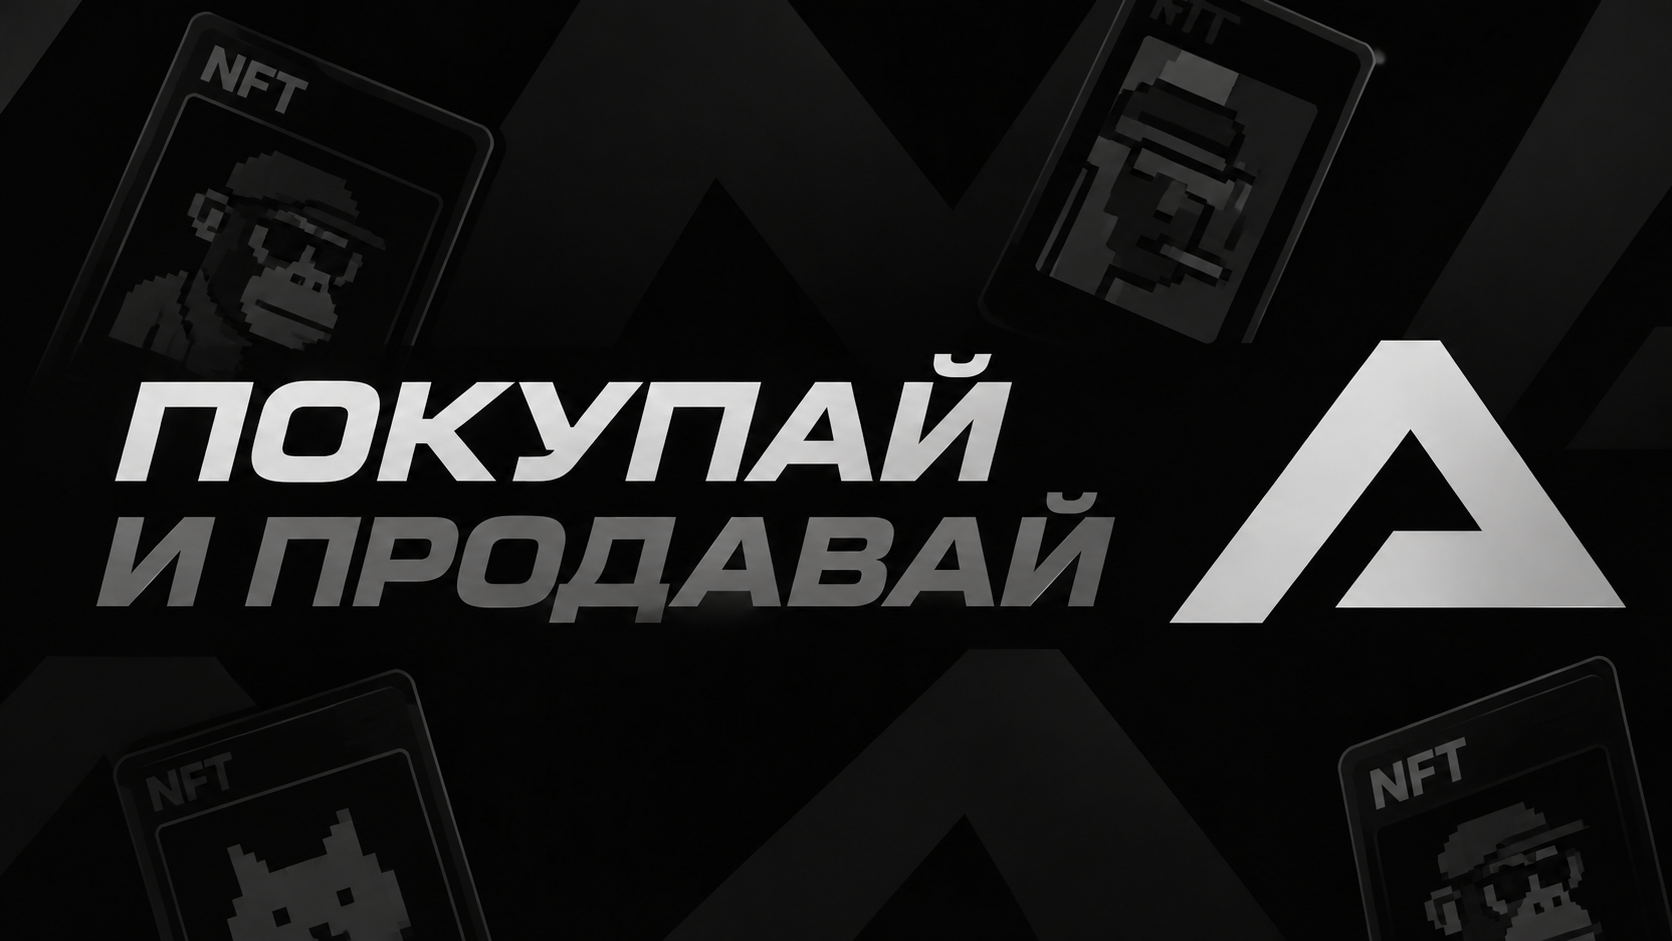
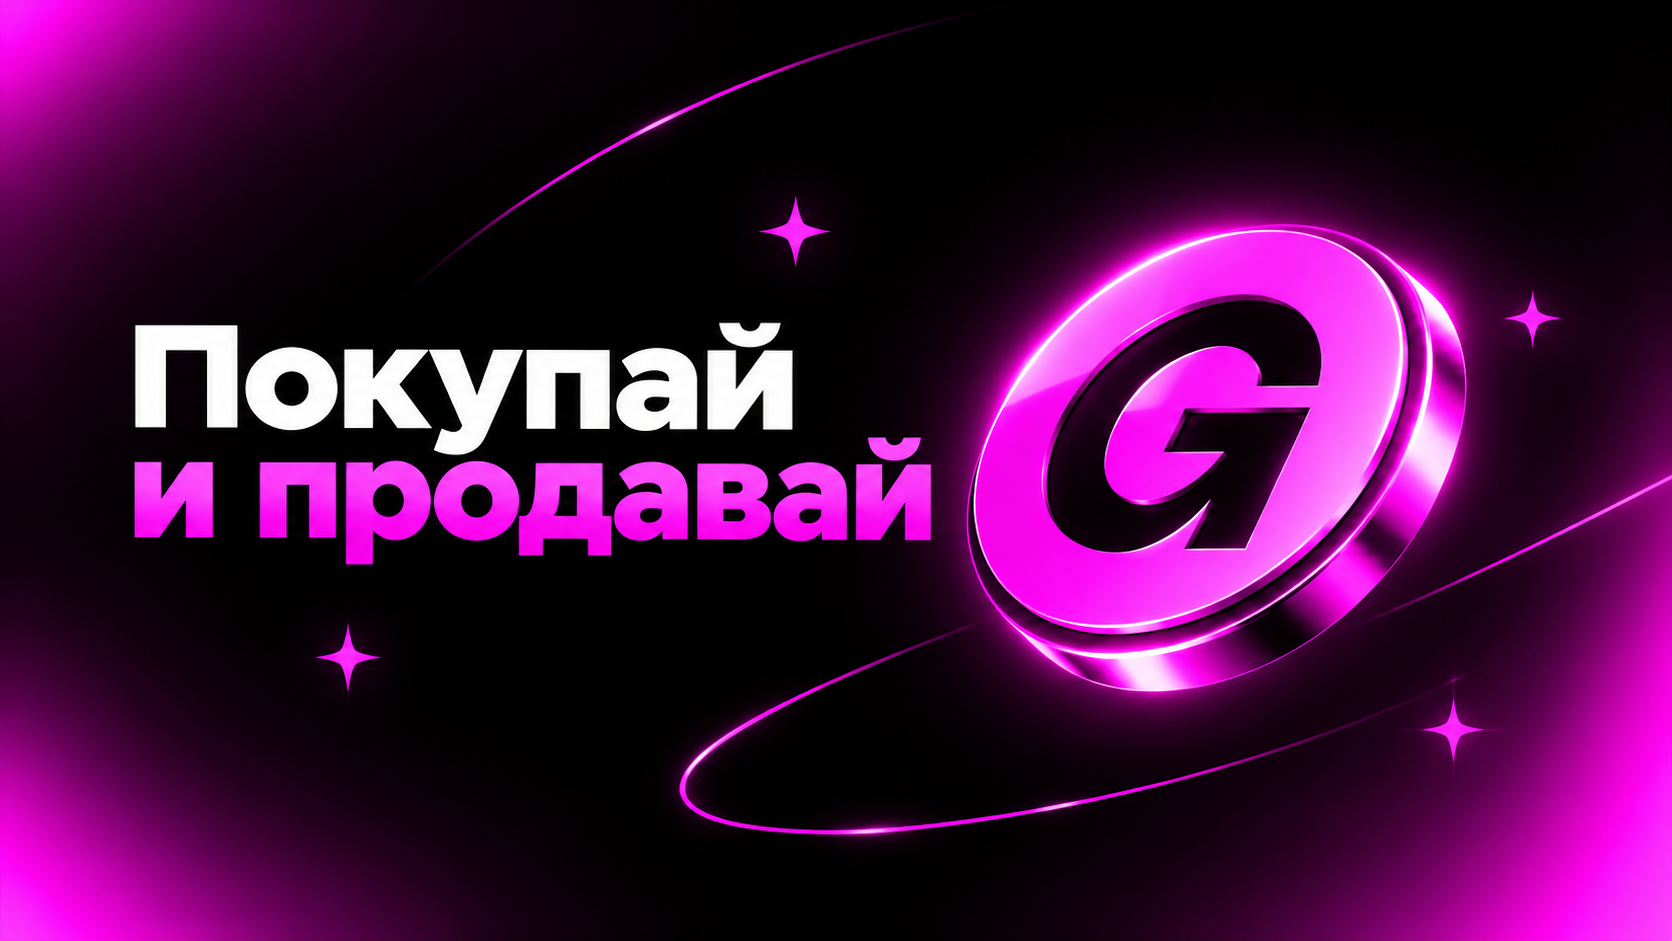
Bot: socials in welcome, blue buttons, create/language buttons, new welcome art

diff --git a/app/bot.py b/app/bot.py
@@ -99,6 +99,15 @@ def webapp_url(query: str = "") -> str:
     return f"{base}?{query}" if query else base
 
 
+def blue(markup: InlineKeyboardMarkup) -> InlineKeyboardMarkup:
+    """Красит все кнопки в синий (Bot API 9.4+: style="primary")."""
+    for row in markup.inline_keyboard:
+        for button in row:
+            if not getattr(button, "style", None):
+                button.style = "primary"
+    return markup
+
+
 def welcome_menu(lang: str = "ru") -> InlineKeyboardMarkup:
     builder = InlineKeyboardBuilder()
     builder.row(
@@ -107,7 +116,13 @@ def welcome_menu(lang: str = "ru") -> InlineKeyboardMarkup:
             text=tr("Открыть маркетплейс", lang), web_app=WebAppInfo(url=settings.market_url)
         ),
     )
-    return builder.as_markup()
+    builder.row(
+        InlineKeyboardButton(
+            text="➕ " + tr("Создать сделку", lang), web_app=WebAppInfo(url=webapp_url("tab=create"))
+        ),
+        InlineKeyboardButton(text="🌐 " + tr("Сменить язык", lang), callback_data="lang"),
+    )
+    return blue(builder.as_markup())
 
 
 def main_menu(lang: str = "ru") -> InlineKeyboardMarkup:
@@ -130,7 +145,7 @@ def main_menu(lang: str = "ru") -> InlineKeyboardMarkup:
         InlineKeyboardButton(text="❔ " + tr("Как это работает", lang), callback_data="how"),
     )
     builder.row(InlineKeyboardButton(text="🌐 " + tr("Язык", lang), callback_data="lang"))
-    return builder.as_markup()
+    return blue(builder.as_markup())
 
 
 def language_menu(lang: str = "ru") -> InlineKeyboardMarkup:
@@ -140,7 +155,7 @@ def language_menu(lang: str = "ru") -> InlineKeyboardMarkup:
         InlineKeyboardButton(text="🇬🇧 English", callback_data="lang:en"),
     )
     builder.row(InlineKeyboardButton(text=T(lang, "← Назад", "← Back"), callback_data="menu"))
-    return builder.as_markup()
+    return blue(builder.as_markup())
 
 
 def start_language_menu() -> InlineKeyboardMarkup:
@@ -149,7 +164,7 @@ def start_language_menu() -> InlineKeyboardMarkup:
         InlineKeyboardButton(text="Русский", callback_data="startlang:ru"),
         InlineKeyboardButton(text="English", callback_data="startlang:en"),
     )
-    return builder.as_markup()
+    return blue(builder.as_markup())
 
 
 async def _await_public_url(timeout: float = 3.0) -> None:
@@ -170,11 +185,15 @@ async def send_welcome(target, lang: str) -> None:
         f"Добро пожаловать 👋\n\n"
         "<blockquote>Gumroad — Мы специализированный сервис по обеспечению "
         "безопасности внебиржевых сделок. Удобный и быстрый вывод средств.</blockquote>\n\n"
+        '<a href="https://gumroad.com">gumroad.com</a> · '
+        '<a href="https://x.com/gumroad">x.com/gumroad</a>\n\n'
         f"<blockquote>{pe('💼')} Комиссия сервиса: {fee.replace('.', ',')}%\n"
         f"{pe('🕓')} Режим работы: 24/7</blockquote>",
         f"Welcome 👋\n\n"
         "<blockquote>Gumroad — We are a specialized service for secure "
         "over-the-counter deals. Fast and convenient withdrawals.</blockquote>\n\n"
+        '<a href="https://gumroad.com">gumroad.com</a> · '
+        '<a href="https://x.com/gumroad">x.com/gumroad</a>\n\n'
         f"<blockquote>{pe('💼')} Service fee: {fee}%\n"
         f"{pe('🕓')} Working hours: 24/7</blockquote>",
     )
@@ -217,7 +236,7 @@ def deal_keyboard(deal: dict, viewer_id: int | None, lang: str = "ru") -> Inline
                 url=f"https://t.me/share/url?url={quote(invite)}&text={quote(T(lang, 'Сделка в Gumroad: ', 'Deal on Gumroad: ') + deal['title'])}",
             ),
         )
-    return builder.as_markup()
+    return blue(builder.as_markup())
 
 
 def deal_text(deal: dict, lang: str = "ru") -> str:
@@ -331,7 +350,7 @@ async def cmd_market(message: Message) -> None:
             "Gifts, rent and anonymous +888 numbers.\n"
             "GRAM balance, top-up via @CryptoBot.",
         ),
-        reply_markup=builder.as_markup(),
+        reply_markup=blue(builder.as_markup()),
     )
 
 
@@ -355,7 +374,7 @@ async def cmd_deals(message: Message) -> None:
     lang = await lang_of(message.from_user.id)
     builder = InlineKeyboardBuilder()
     builder.row(InlineKeyboardButton(text=tr("Открыть мои сделки", lang), web_app=WebAppInfo(url=webapp_url("tab=deals"))))
-    await message.answer(tr("Все сделки — в приложении:", lang), reply_markup=builder.as_markup())
+    await message.answer(tr("Все сделки — в приложении:", lang), reply_markup=blue(builder.as_markup()))
 
 
 @router.message(Command("balance"))
@@ -388,7 +407,7 @@ def balance_menu(lang: str = "ru") -> InlineKeyboardMarkup:
         ),
     )
     builder.row(InlineKeyboardButton(text=T(lang, "← Назад", "← Back"), callback_data="menu"))
-    return builder.as_markup()
+    return blue(builder.as_markup())
 
 
 async def balance_text(uid: int, lang: str = "ru") -> str:
@@ -427,7 +446,7 @@ async def cmd_create(message: Message) -> None:
             f"{pe('➕')} Создание сделки — в приложении, там всё наглядно.",
             f"{pe('➕')} Deal creation is in the app — everything is visual there.",
         ),
-        reply_markup=builder.as_markup(),
+        reply_markup=blue(builder.as_markup()),
     )
 
 
@@ -500,7 +519,7 @@ async def start_create(message: Message, state: FSMContext) -> None:
         builder.button(text=info.code, callback_data=f"cur:{info.code}")
     builder.adjust(2)
     builder.row(InlineKeyboardButton(text=tr("Отмена", lang), callback_data="create_cancel"))
-    await message.answer(tr("Выберите валюту сделки:", lang), reply_markup=builder.as_markup())
+    await message.answer(tr("Выберите валюту сделки:", lang), reply_markup=blue(builder.as_markup()))
 
 
 @router.callback_query(F.data == "create")
@@ -602,7 +621,7 @@ async def step_amount(message: Message, state: FSMContext) -> None:
             "Describe the terms: what is delivered and what counts as completion.\n\n"
             "Send the text or tap “Skip”.",
         ),
-        reply_markup=builder.as_markup(),
+        reply_markup=blue(builder.as_markup()),
     )
 
 
@@ -647,9 +666,9 @@ async def preview_deal(message: Message, state: FSMContext, edit: bool = False, 
     )
     await state.set_state(CreateDeal.confirm)
     if edit:
-        await message.edit_text(text, reply_markup=builder.as_markup())
+        await message.edit_text(text, reply_markup=blue(builder.as_markup()))
     else:
-        await message.answer(text, reply_markup=builder.as_markup())
+        await message.answer(text, reply_markup=blue(builder.as_markup()))
 
 
 @router.callback_query(CreateDeal.confirm, F.data == "create:yes")
@@ -692,7 +711,7 @@ async def cb_create_yes(callback: CallbackQuery, state: FSMContext) -> None:
             url=f"https://t.me/share/url?url={quote(invite)}&text={quote(T(lang, 'Сделка в Gumroad: ', 'Deal on Gumroad: ') + deal['title'])}",
         ),
     )
-    await callback.message.edit_text(text, reply_markup=builder.as_markup())
+    await callback.message.edit_text(text, reply_markup=blue(builder.as_markup()))
 
 
 # --------------------------------------------------------------------------- enter by code
@@ -710,7 +729,7 @@ async def cb_enter_code(callback: CallbackQuery, state: FSMContext) -> None:
             "Введите код сделки или ссылку-приглашение.\n<i>Например: KST-AB12CD</i>",
             "Enter the deal code or invite link.\n<i>Example: KST-AB12CD</i>",
         ),
-        reply_markup=builder.as_markup(),
+        reply_markup=blue(builder.as_markup()),
     )
     await callback.answer()
 
@@ -854,7 +873,7 @@ async def cmd_market_orders(message: Message) -> None:
                 callback_data=f"mkt:ref:{order['id']}",
             ),
         )
-    await message.answer("".join(lines), reply_markup=builder.as_markup())
+    await message.answer("".join(lines), reply_markup=blue(builder.as_markup()))
 
 
 @router.message(Command("marketdone"))
@@ -920,7 +939,7 @@ async def cmd_market_payouts(message: Message) -> None:
             InlineKeyboardButton(text="✅ Выплачено", callback_data=f"mkt:pay:{item['id']}"),
             InlineKeyboardButton(text="↩ Отклонить", callback_data=f"mkt:rej:{item['id']}"),
         )
-    await message.answer("".join(lines), reply_markup=builder.as_markup())
+    await message.answer("".join(lines), reply_markup=blue(builder.as_markup()))
 
 
 @router.message(Command("marketpaid"))
@@ -1158,7 +1177,7 @@ async def cmd_disputes(message: Message) -> None:
             f"{tr('Продавец', lang)}: {html.escape(deal['seller']['name'] if deal['seller'] else '—')}\n"
             f"{tr('Покупатель', lang)}: {html.escape(deal['buyer']['name'] if deal['buyer'] else '—')}\n\n"
             f"{tr('Причина', lang)}: {html.escape(deal['dispute_reason'] or '—')}",
-            reply_markup=builder.as_markup(),
+            reply_markup=blue(builder.as_markup()),
         )
 
 
@@ -1178,8 +1197,10 @@ async def cb_arbitrate(callback: CallbackQuery) -> None:
     await callback.message.edit_text(
         T(lang, f"Решение принято по <code>{deal['code']}</code>\nСтатус: {deal['status_label']}",
           f"Decision made on <code>{deal['code']}</code>\nStatus: {deal['status_label']}"),
-        reply_markup=InlineKeyboardMarkup(
-            inline_keyboard=[[InlineKeyboardButton(text=tr("Открыть сделку", lang), web_app=WebAppInfo(url=deal["webapp_url"]))]]
+        reply_markup=blue(
+            InlineKeyboardMarkup(
+                inline_keyboard=[[InlineKeyboardButton(text=tr("Открыть сделку", lang), web_app=WebAppInfo(url=deal["webapp_url"]))]]
+            )
         ),
     )
     await callback.answer(T(lang, "Готово", "Done"))

diff --git a/app/i18n.py b/app/i18n.py
@@ -171,6 +171,7 @@ EN: dict[str, str] = {
     "Как это работает": "How it works",
     "Поддержка": "Support",
     "Язык": "Language",
+    "Сменить язык": "Change language",
     "Присоединиться": "Join",
     "Присоединиться как продавец": "Join as seller",
     "Ссылка для продавца:": "Seller link:",
